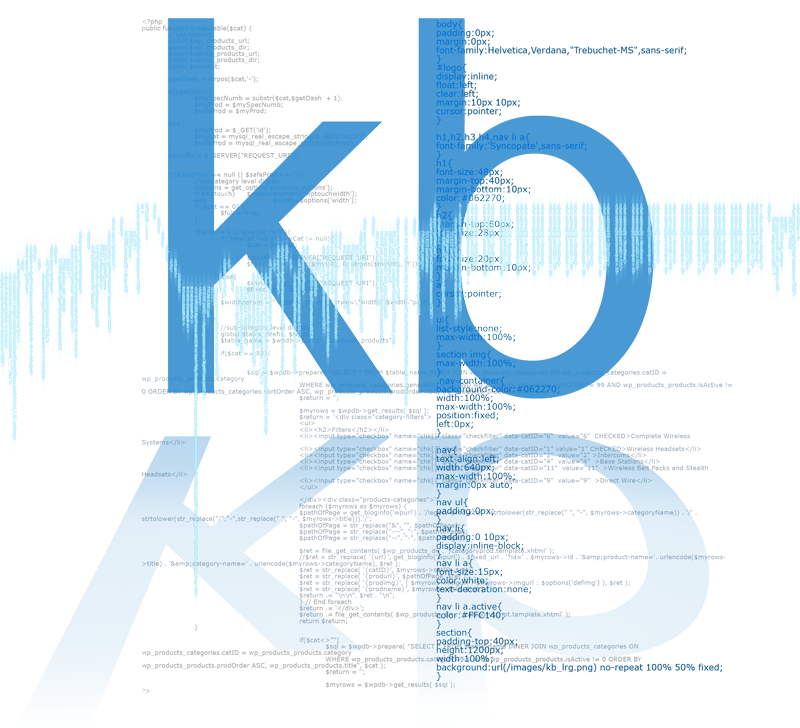
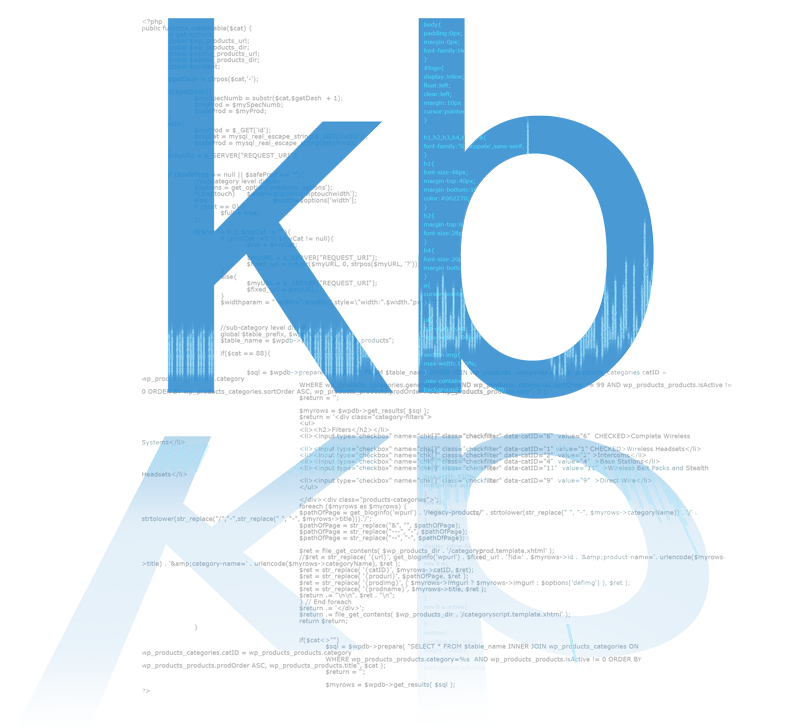
+text alter
typos+ changed background image colors / position

diff --git a/style.css b/style.css
@@ -81,21 +81,21 @@ color:#062270;
 section .content a:hover{
 color:#062270;
 }
-section:nth-child(even){
+section:nth-child(odd){
 background-color:#fff;
 color: #2B4281;
 }
-section:nth-child(even) h1,h2,h3,h4{
+section:nth-child(odd) h1,h2,h3,h4{
 color:#2B4281;
 }
-section:nth-child(odd){
+section:nth-child(even){
 background-color:#2B4281;
 color:white;
 }
-section:nth-child(odd) a{
+section:nth-child(even) a{
 color:white;
 }
-section:nth-child(odd) h1,h2,h3,h4{
+section:nth-child(even) h1,h2,h3,h4{
 color:#FFC140;	
 }
 .bottom-link{
@@ -208,16 +208,27 @@ display:inline;
   	max-width:640px;
   	padding:70px 10px 0 10px;
 	}
-
+	section{
+	background-image:url(/images/kb_lrg.png);
+	background-size:50% !important;
+	background-position:100% 0%;
+	background
+	}
 }
 
 @media screen and (min-width:641px) and (max-width:1399px){
 	section .content {
 	margin:0px auto;
 	max-width:800px;
-	background-position:top right;
+	background-position:top left;
 	background-repeat:no-repeat;
 	padding:0 10px 0 10px;
+	}
+	section{
+	background-image:url(/images/kb_lrg.png);
+	background-size:50% !important;
+	background-position:100% 0%;
+	background
 	}
 }
 @media screen and (min-width:1400px){

diff --git a/bootstrap/index.html b/bootstrap/index.html
@@ -46,7 +46,7 @@
    <div class="container">
      <h1>Hello, Bootstrappers!</h1>
      <img src="/images/kiva.jpg" title="Kiva Bitar" alt="Kiva Bitar"/><br>
-     <p>Bootstap is easy to implement and saves time. It took me all of 15 minutes to install this and tweak this page.</p>
+     <p>Bootstrap is easy to implement and saves time. It took me all of 15 minutes to install this and tweak this page.</p>
      <h3> $bower install bootstrap</h3>
 	
 								
